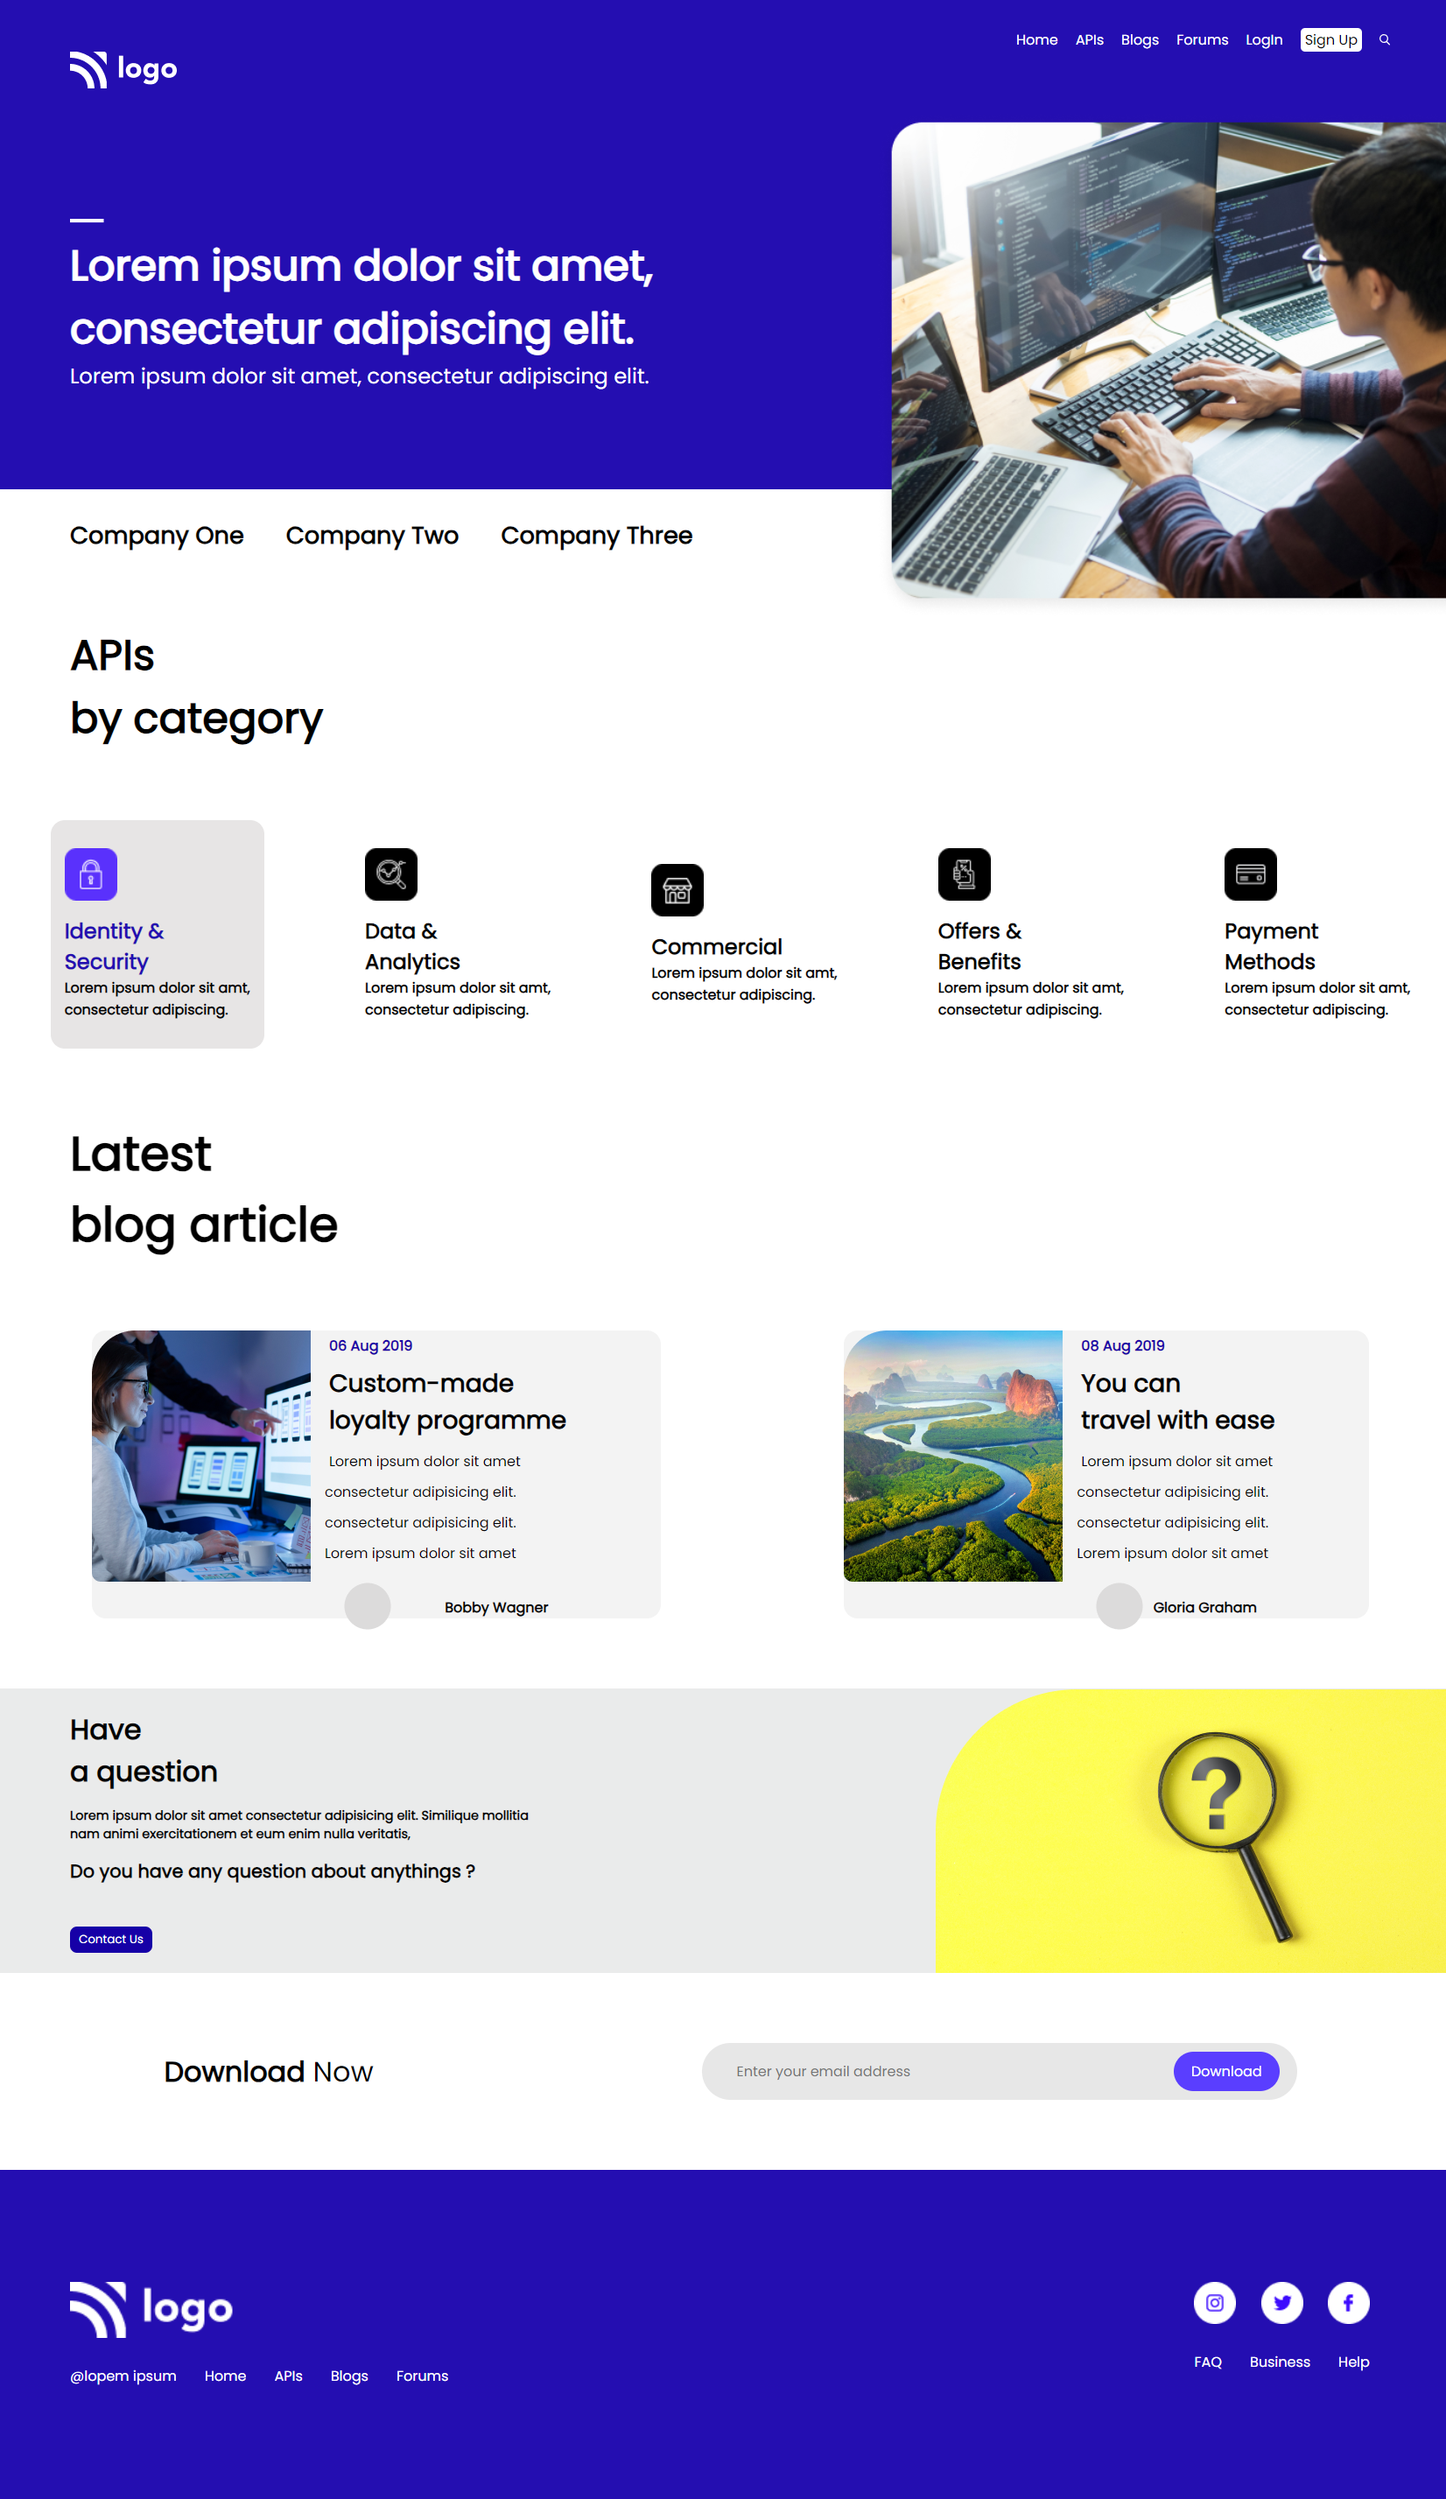
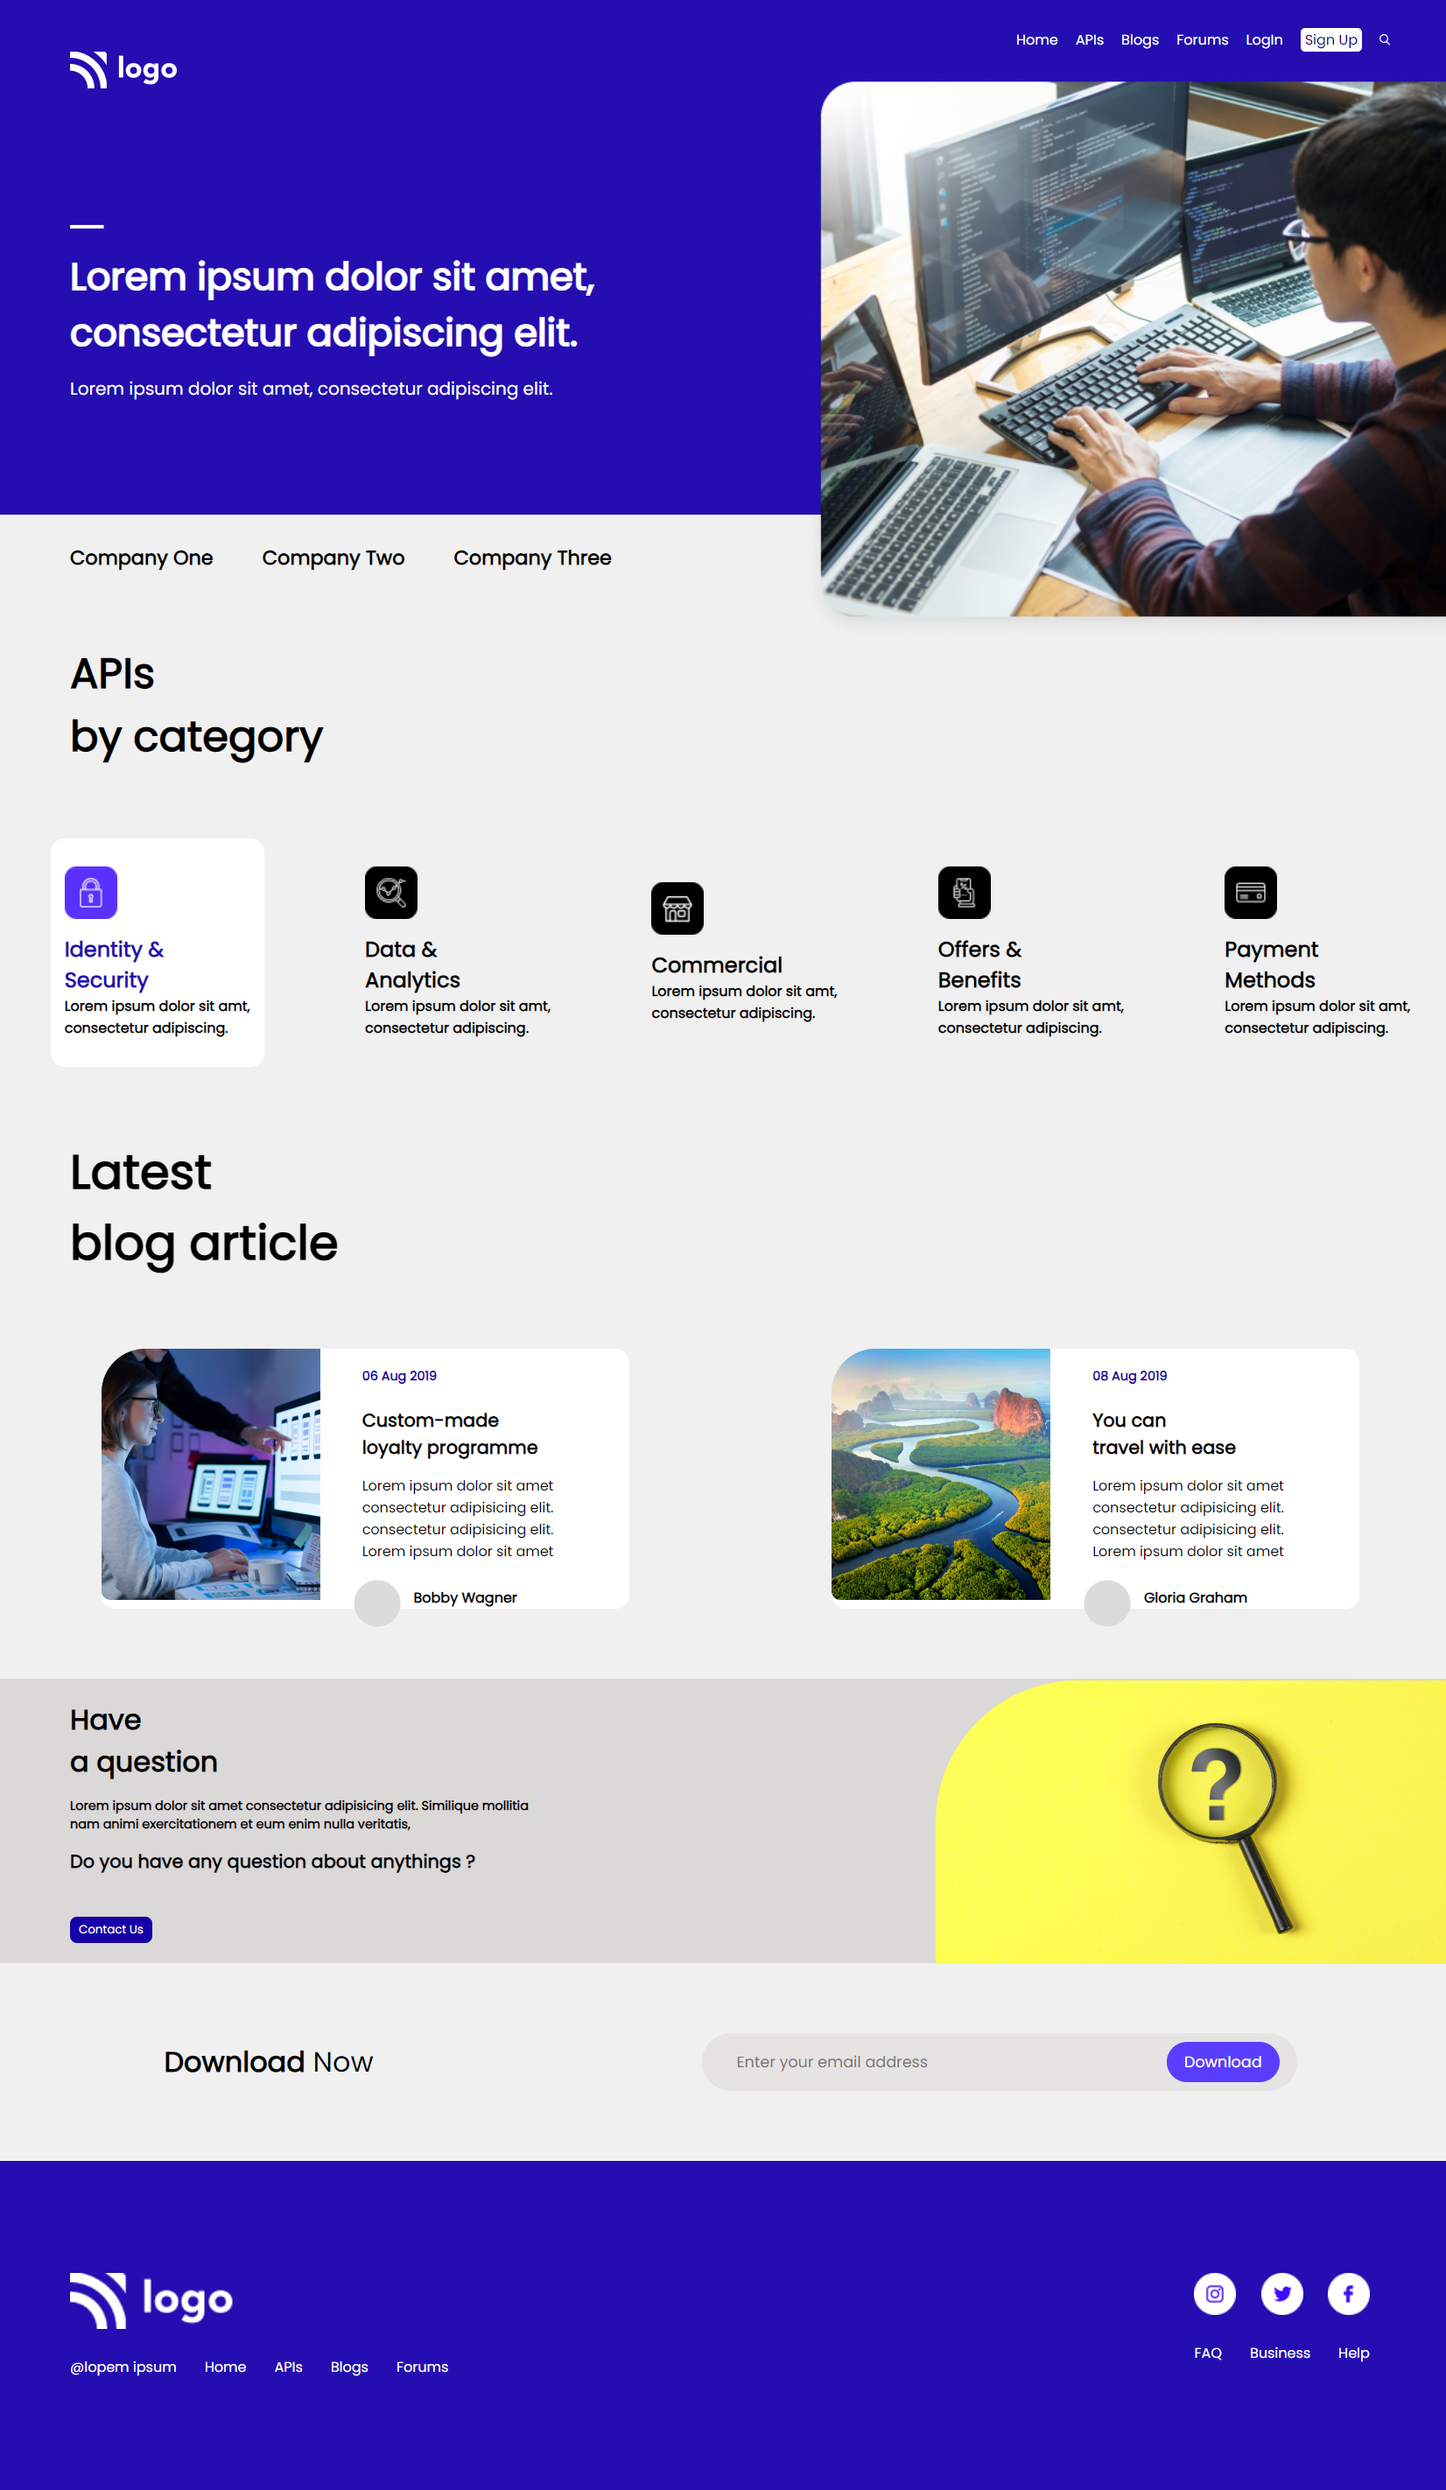
modify css code for better view

diff --git a/style.css b/style.css
@@ -1,3 +1,4 @@
+
 /* POPPINS FONT FAMILY */
 @import url("https://fonts.googleapis.com/css2?family=Poppins&display=swap");
 @import url("https://fonts.googleapis.com/css2?family=Righteous&display=swap");
@@ -8,6 +9,10 @@
   font-family: "Poppins", sans-serif;
 }
 
+body{
+  background-color: rgb(240, 240, 240);
+}
+
 
 header{
   background-color: #240eb1;
@@ -15,7 +20,7 @@ header{
 }
 
 nav{
-  color: white;
+  color: rgb(255, 255, 255);
   display: flex;
   justify-content: end;
   align-items: center;
@@ -24,21 +29,24 @@ nav{
 
 
 .nav-item-active{
-  background-color: white;
-  padding: 1px 5px 1px 5px;
-  color: black;
+  background-color: rgb(255, 255, 255);
+  padding: 1px 5px;
+  color: rgb(12, 1, 116);
   border-radius: 5px;
 }
 
 
 .header-text{
-  font-size: 2rem;
-  color: white;
+  font-size: 1.8rem;
+  font-weight: 400;
+  color: rgb(255, 255, 255);
   margin-top: 7rem;
+  line-height: 4rem;
+  width: 65vh;
 }
 
 .header-text p{
-  font-size: 1.5rem;
+  font-size: 1.25rem;
 }
 
 
@@ -47,18 +55,19 @@ nav{
   border-radius: 10px;
   position: absolute;
   right: 0;
-  top: 8rem;
-  width: 40%;
+  top: 5rem;
+  width: 45%;
 }
 
 .companies{
   width: 50%;
-  font-size: 1.7rem;
+  font-size: 1.4rem;
   display: flex;
-  gap: 3rem;
-  padding-left: 5rem;
+  gap: 3.5rem;
+  margin-left: 5rem;
   font-weight: 900;
   margin-top: 2rem;
+  width: 67vh;
 }
 
 .company-items{
@@ -76,7 +85,7 @@ nav{
 
 
 .card-active{
-  background: rgb(231, 229, 229);
+  background: rgb(255, 255, 255);
   padding: 2rem 1rem 2rem 1rem;
   border-radius: 1rem;
   font-weight: 700;
@@ -125,42 +134,47 @@ nav{
 
 .blog-card{
   display: flex;
-  background: rgb(243, 243, 243);
-  padding: 0rem 8rem 0rem 0rem;
+  background: rgb(255, 255, 255);
+  padding-right: 8rem;
   border-radius: 1rem;
+  border-top-left-radius: 4rem;
 }
 
 .blog-content{
-  margin-left: 1rem;
-  font-size: 1.5rem;
+  margin-left: 3rem;
+  margin-top: 1rem;
 }
 
 
 .blog-content h6{
+  font-size: .9rem;
   color: #1600a7;
-  padding: 5px;
+  margin-top: 5px;
 }
 
 
 .blog-content h3{
-  padding: 5px;
+  font-size: 1.3rem;
+  font-weight: 900;
+  margin-top: 1.5rem;
+  margin-bottom: 1rem;
 }
 
-small{
+.blog-content small{
   font-size: 1rem;
-  padding: 5px;
+  
 }
 
 .blog-bottom{
   position: absolute;
-  margin-top: 18rem;
+  margin-top: 16.5rem;
   margin-left: 18rem;
 }
 
 
 .blog-author{
-  padding-top: 19rem;
-  margin-left: -4.5rem;
+  margin-top: 17rem;
+  margin-left: -5rem;
 }
 
 
@@ -168,7 +182,7 @@ small{
 .faq-section{
   display: flex;
   margin: 5rem 0 5rem 0 ;
-  background-color: rgb(234, 235, 235);
+  background-color: rgb(219, 216, 216);
   padding: 1.45rem 0 1.45rem 5rem;
 }
 
@@ -192,13 +206,13 @@ small{
 .faq-image{
   position: absolute;
   right: 0px;
-  top: 120.595rem;
+  top: 120rem;
 }
 
 .faq-section button{
-  color: white;
+  color: rgb(255, 255, 255);
   background-color: #1600a7;
-  padding: 3px 8px 3px 8px;
+  padding: 3px 8px ;
   border: 2px solid #1600a7;
   border-radius: 8px;
   margin-top: 3rem;
@@ -228,7 +242,7 @@ small{
 .download-email form {
   display: flex;
   align-items: center;
-  background-color: rgb(231, 231, 231);
+  background-color: rgb(230, 227, 227);
   border: none;
   border-radius: 50px;
   padding: 10px 20px;
@@ -248,7 +262,7 @@ small{
 
 .download-email button {
   background-color: #5a3eff;
-  color: white;
+  color: rgb(255, 255, 255);
   border: none;
   border-radius: 50px;
   padding: 10px 20px;
@@ -282,8 +296,6 @@ small{
 
 
 
-
-
 .footer-logos{
   height: 3rem;
   margin-right: 1.5rem;
@@ -298,7 +310,4 @@ small{
   gap: 2rem;
   padding-top: 1.5rem;
 }
-
-
-
 
